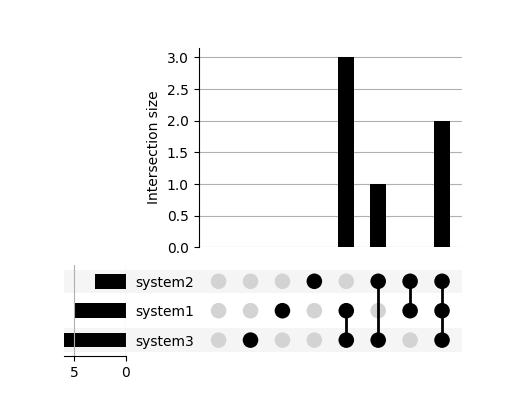
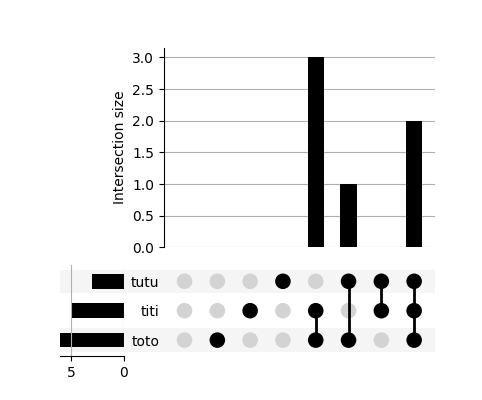
improving naming and allowing new image formats

diff --git a/bio_to_upset_plots.py b/bio_to_upset_plots.py
@@ -76,7 +76,7 @@ def write_json_file(path, content):
   w.write(json.dumps(content, indent = 2))
   w.close()
 
-def plot_graph(res, path):
+def plot_graph(res, path, img_format = "png"):
   """ From upset_plot data Plot upset plots and store corresponding data"""
 
   path_figures = f"{path}/figures"
@@ -90,7 +90,9 @@ def plot_graph(res, path):
       data_out.append(dic[cat])
     example = from_memberships(liste_cats, data = data_out)
     plot(example)
-    pyplot.savefig(f"{path_figures}/{typ_res}.png")
+    path_img = f"{path_figures}/{typ_res}.{img_format}"
+    print(path_img)
+    pyplot.savefig(path_img)
 
   print(f"  figures stored in '{path_figures}/'")
 
@@ -98,11 +100,11 @@ def plot_graph(res, path):
   write_json_file(path_upset, [liste_cats, data_out])
   print(f"  output file in upset plot format stored in '{path_upset}'")
 
-def verify_data(liste_files, data_in):
+def verify_data(list_files, data_in):
   """Verify the number of BIO lines and that the tokens are the same"""
   for i in range(1, len(data_in)):
-    f0 = liste_files[0]
-    fi = liste_files[i]
+    f0 = list_files[0]
+    fi = list_files[i]
     l0 = len(data_in[0])
     li = len(data_in[i])
     assert l0==li, f"Inconsistent number of BIO lines :\n {f0} ({l0}) VS {fi} ({li})"
@@ -111,18 +113,34 @@ def verify_data(liste_files, data_in):
       toki = data_in[i][j][0]
       assert tok0==toki, f"Not the same token line {j} : \n f{0} --> {tok0}\n f{1} --> {toki}" 
 
-def files_2_cat(path):
-  liste_files = glob.glob(f"{path}/*.tx*")
-  data_in = [file2_triple(path_file) for path_file in liste_files]
-  verify_data(liste_files, data_in)
+def get_names_plot(list_files, dic_names):
+  """
+  Gives a name for each path present in list_files
+  By default: gives filename
+  If dic_names contains a "translation" for each path or each filename, it gives the translation
+  """
+  names = [re.split("/|\.", x)[-2] for x in list_files]
+  if len(dic_names)==len(list_files):
+    missing_paths     = set(dic_names.keys()).difference(set(list_files))
+    missing_filenames = set(dic_names.keys()).difference(set(names))
+    if len(missing_paths)==0:# Translating path
+      return [dic_names[x] for x in list_files]
+    elif len(missing_filenames)==0:# Tranlasting filenames
+      return [dic_names[x] for x in names]
+  # If we are there, translation was not possible
+  return names
 
-  names = [re.split("/|\.", x)[-2] for x in liste_files]
+def files_2_cat(path, img_format = "png", dic_names= {}):
+  list_files = glob.glob(f"{path}/*.tx*")
+  names = get_names_plot(list_files, dic_names)
   print(f"\nfilenames : {names}")
+
+  data_in = [file2_triple(path_file) for path_file in list_files]
+  verify_data(list_files, data_in)
   res = bio2upsetData(data_in, names, debug=DEBUG)
-  plot_graph(res, path)
+  plot_graph(res, path, img_format = img_format)
 
-
-#for an external usage just call the files_2_cat function with a path containg BIO files
+# for an external usage just call the files_2_cat function with a path containing BIO files
 
 
 if __name__=="__main__":
@@ -134,7 +152,7 @@ if __name__=="__main__":
   if len(sys.argv)==1:
     print("\nspecify the path of the directory containg the BIO result files")
     print("\nfor example python bio_to_upset_plots.py example_data")
-    print("...exiting ...")
+    print("... exiting ...")
     exit()
   elif len(sys.argv)==3:
     print("--- debug mode ---")
@@ -142,3 +160,15 @@ if __name__=="__main__":
   TOKENS=True
   path = sys.argv[1]
   files_2_cat(path)
+
+  # One can change the image format :
+  files_2_cat(path, img_format="svg")
+
+  # One can also give alternative names for each name in path
+
+  # Creating dummy values for the example
+  dummy_names= ["toto", "titi", "tutu"]
+  liste_path = glob.glob(f"{path}/*.tx*")
+  dic_path = {liste_path[i]:dummy_names[i] for i in range(len(dummy_names))}
+
+  files_2_cat(path, dic_names = dic_path)

diff --git a/README.MD b/README.MD
@@ -1,15 +1,20 @@
 
-
-
 For a command line usage : python bio_to_upset_plots.py DIR
 
 -  where DIR is the directory where the aligned result files (BIO format) are stored
 
 For an external usage
 - call the files_2_cat function with a path containg BIO files
+- by default the names displayed on the graphs are derived from the filenames
+- Options:
+ - img_format : specifying another image format (defaul : png)
+ - dic_names  : alternate names to display for the graph
+  - Works IF
+    - dic_names associates a name to each path
+    - OR dic_names associates a name to each filename
+  - else:
+    - use default names (e.g. filenames)
 
-  
-The names displayed on the graphs will be derived from the filenames
 
 TODO:
 - better handling of BIO format
